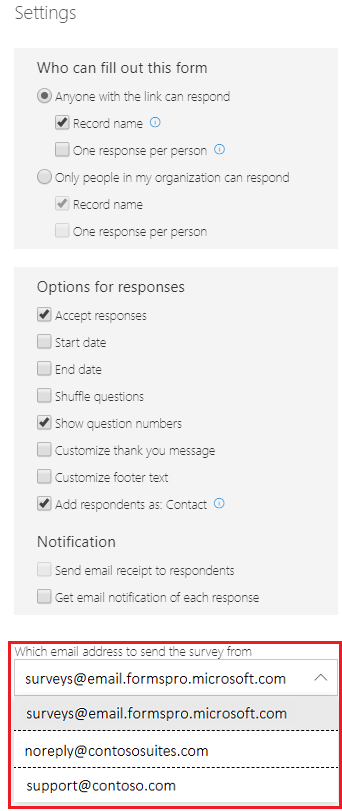
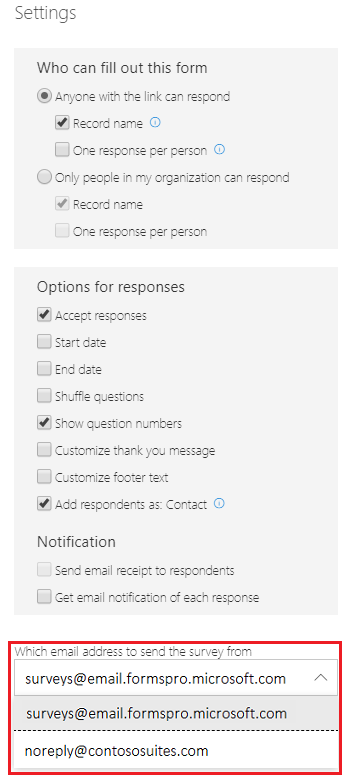
updated email address

diff --git a/fp-docs/send-survey-email.md b/fp-docs/send-survey-email.md
@@ -109,7 +109,7 @@ You can perform these actions on an email template:
 
 By default, surveys are sent from the `surveys@email.formspro.microsoft.com` email address. The email customization feature helps you select an email address consisting of your company's domain. You can use the custom email address to send survey invitations to your respondents. 
 
-Let's say you are an owner of two companies named Contoso, Ltd. and Contoso Suites. The companies have their websites as `www.contoso.com` and `www.contososuites.com`. You can create custom email addresses (for example, support@contoso.com and noreply@contososuites.com) consisting of your company domains.
+Let's say you are an owner of a company named Contoso Suites. The company's website is `www.contososuites.com`. You can create a custom email address (for example, noreply@contososuites.com) consisting of your company's domain.
 
 **To customize the sender's email address**
 
@@ -128,7 +128,7 @@ Let's say you are an owner of two companies named Contoso, Ltd. and Contoso Suit
 5. Select **Create a support request**, and specify details as follows:
 
     - **Issue title**: Customize the From email address to send survey invitations
-    - **Issue description**: Enter your issue description, and provide the domains you want to configure for sending emails. For example, if you two websites, `www.contoso.com` and `www.contososuites.com`, you must provide `contoso.com` and `contososuites.com` as the domains.
+    - **Issue description**: Enter your issue description, and provide the domains you want to configure for sending emails. For example, if you a website as `www.contososuites.com`, you must provide `contososuites.com` as the domain.
     - **How severe is this issue?**: Select the severity of the issue.
 
 6. Select **Next**.
